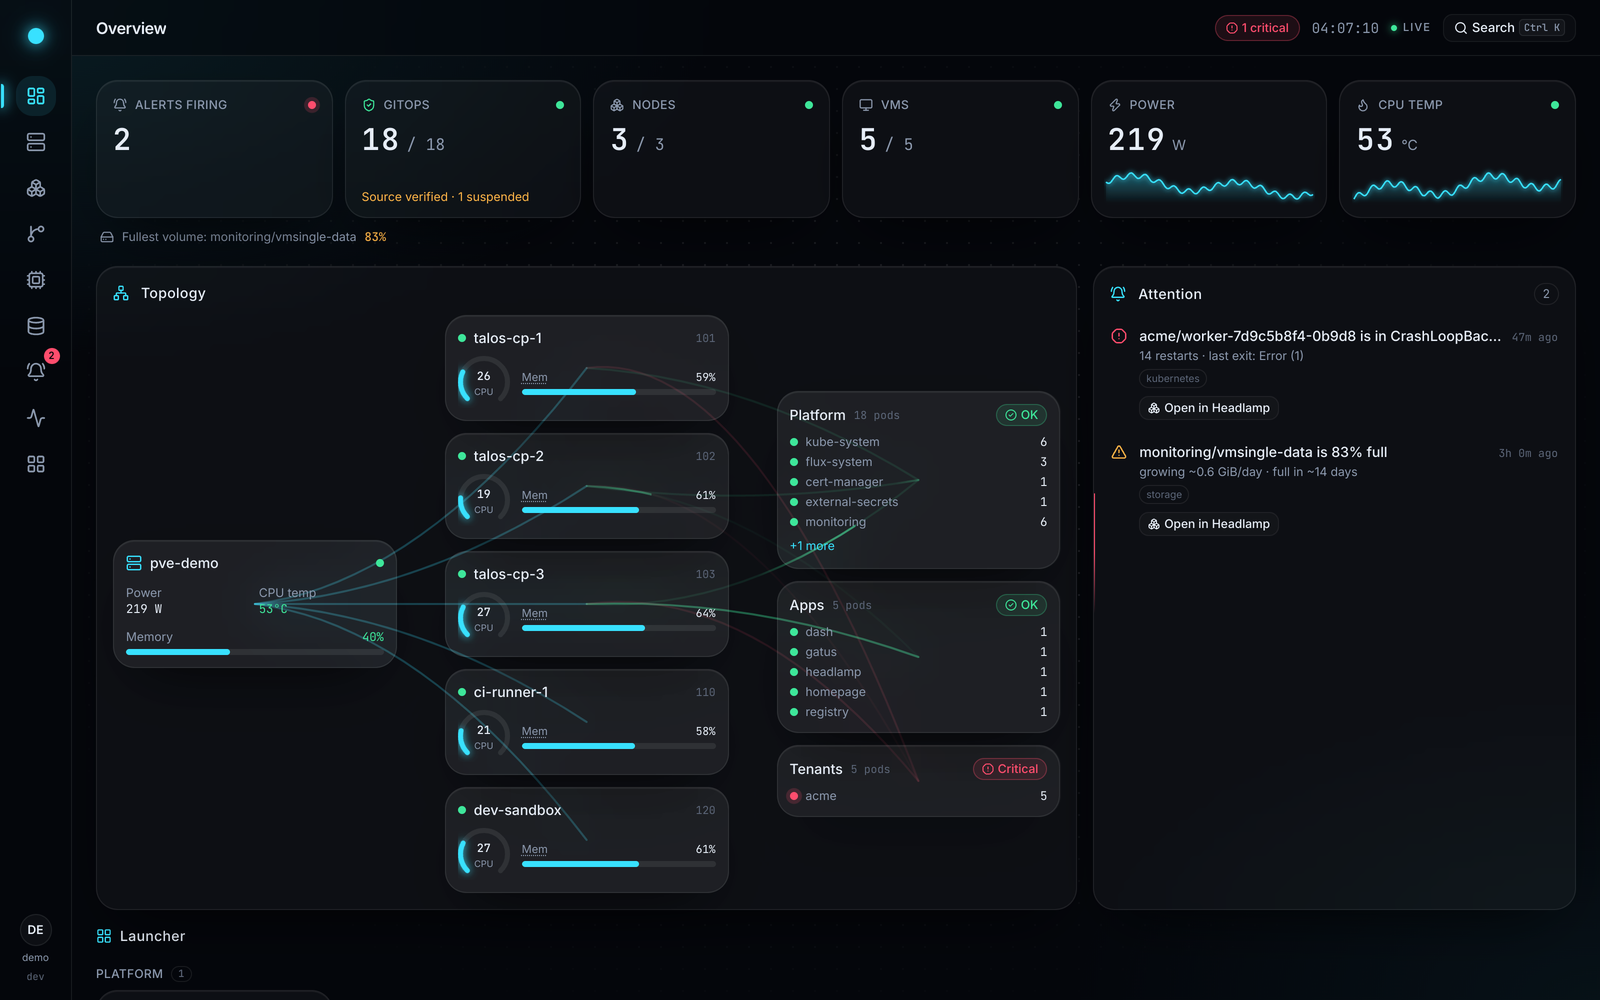
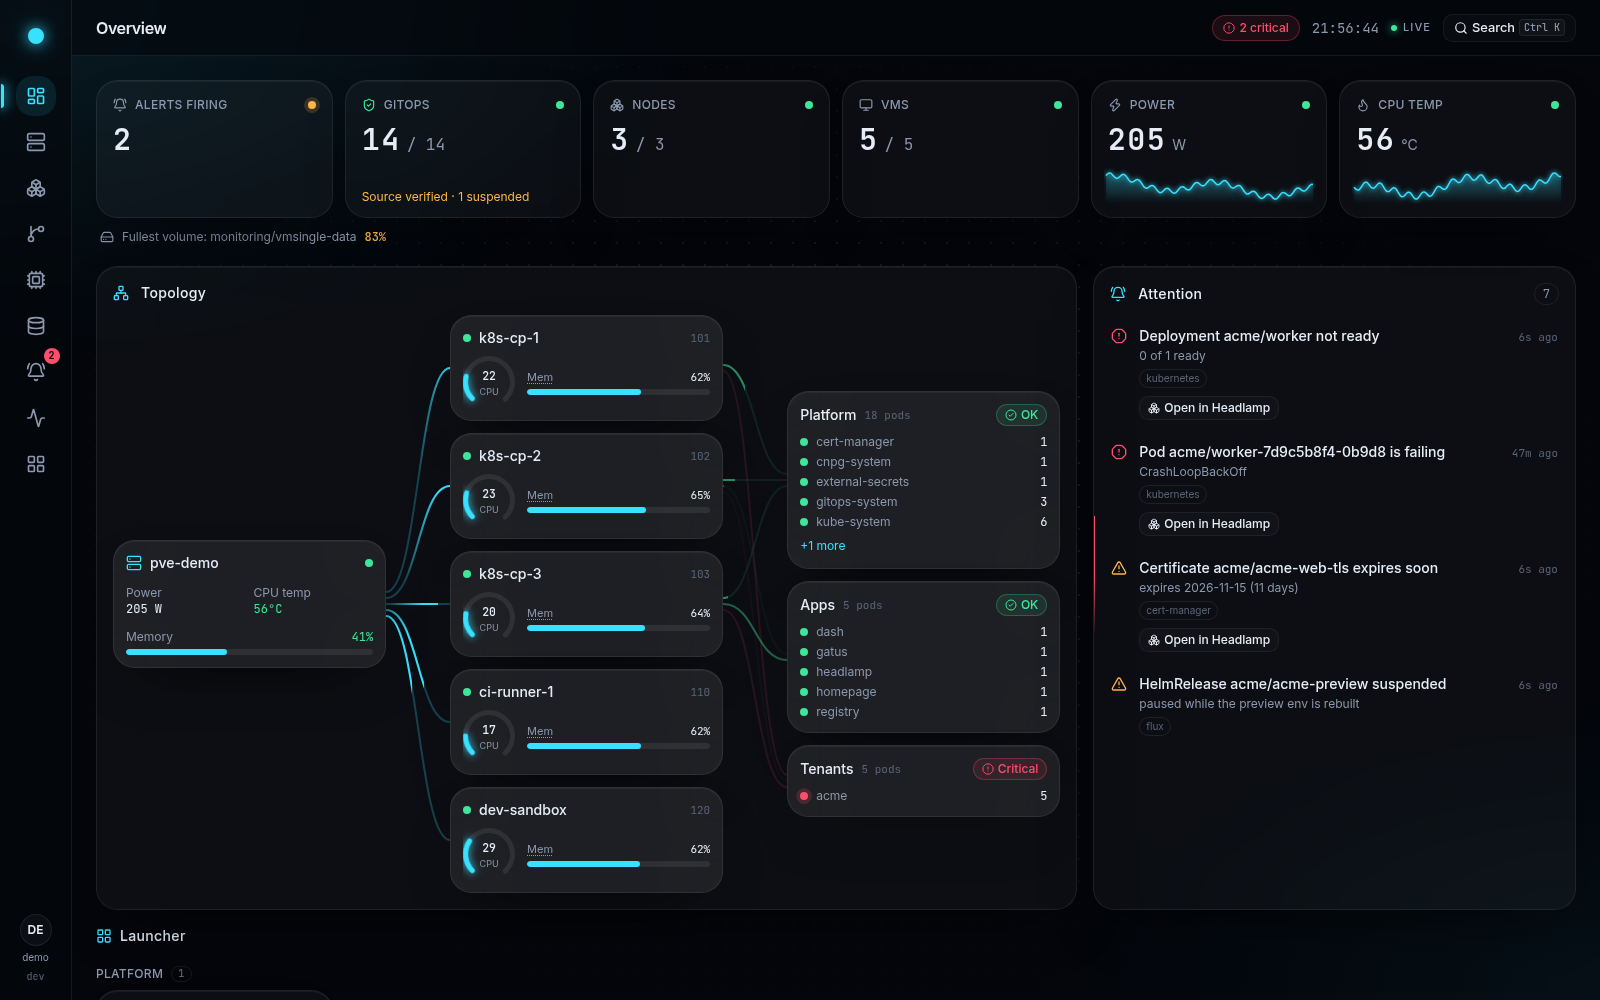
docs: v0.11.2 notes
epic-draft: the v0.11.2 release notes after the v0.11.1 ones. The
topology's beams run between the cards and behind them, stopped VMs
are dimmed again, and beams follow a card that grows. A host that the
icon base's name conversion empties gives no source and the warning,
and the warning follows server.csp. The README image is new. The
evidence section records the test runs, the mutants each new test
kills, and the Chromium checks: header wrap, stopped-card contrast,
"+1 more", and 0 CSP violations and 0 console errors on the nine
pages. The v0.11.1 notes gain the sentence the compatibility review
asked for: behind an authenticating proxy, an expired session logs
one connect-src violation naming the identity provider while the page
reloads into the sign-in, which is expected and needs no kill switch.

plugins-and-config: an As shipped (v0.11.2) note on A.9 for the
icon-base source and its warning.

README: docs/images/overview.png retaken from demo mode at the same
1600x1000, showing the new topology.

diff --git a/docs/design/epic-draft.md b/docs/design/epic-draft.md
@@ -1442,6 +1442,7 @@ R3 of G4: P4.6 and five carry fixes. Image only; nothing to change in the deploy
 
 - **A Content-Security-Policy is now enforced by default, and `DASH_SERVER_CSP` is the kill switch.** `server.csp` (`DASH_SERVER_CSP`, restart-only) is `enforce` (the default), `report-only` (the browser only reports violations in its console) or `off` (no policy header). If a browser shows a blank or unstyled page, set `DASH_SERVER_CSP=report-only` or `off` and restart: an environment change, not an image rollback. The SPA document gets `default-src 'self'; script-src 'self'; style-src 'self' 'nonce-<per-response nonce>'; img-src 'self' data: <ui.iconBaseURL with its path and a trailing slash>; connect-src 'self'; worker-src 'self'; manifest-src 'self'; frame-ancestors 'none'; base-uri 'none'; object-src 'none'; form-action 'self'`; every other response (JSON, event streams, assets, errors) gets `default-src 'none'; frame-ancestors 'none'`. With `ui.iconBaseURL` empty no third-party origin appears. An unknown value of `server.csp` is a configuration error.
 - **Set the kill switch by environment.** `DASH_SERVER_CSP` also survives an image rollback (a release before this setting only warns about the unknown variable); a `server.csp` key in a config file is refused by an older binary, and in YAML the value must be quoted (`csp: "off"`, because a bare `off` is YAML false).
+- Behind an authenticating proxy such as oauth2-proxy, when its session expires the browser logs one connect-src violation naming the identity provider while the page reloads into the sign-in; this is expected and needs no kill switch.
 - **Every response of the main listener also carries `X-Content-Type-Options: nosniff` and `Referrer-Policy: same-origin`**, in every CSP mode, and `Cache-Control: no-store` now covers every response that sets a cookie and `/login`, `/setup` and `/auth/*` (none exists yet). The health listener serves plain-text probes and `/metrics` only and sends none of the three.
 - **An `href` that is not `http:` or `https:` renders as text, not a link** (launcher links, the apps on the Apps page, deep links, the palette's app items; a `window.open` of one does nothing).
 - **A launcher icon outside the allowed forms makes the launcher row `error`** (a name, a same-origin path, or an `http(s)` URL under `ui.iconBaseURL` are allowed; an `http(s)` URL elsewhere, `javascript:` and `data:` are not), with a WARN naming the entry and nothing published. It is **not** a startup error in this release; a later release turns it into a configuration error for inline links. The example launcher file and the names the homelab uses are all valid.
@@ -1450,6 +1451,18 @@ R3 of G4: P4.6 and five carry fixes. Image only; nothing to change in the deploy
 **Evidence run for this release (local, the built binary; the homelab pass and the Gecko pass are not part of it):** `make check` on every commit; `go test -race ./...` and the web tests with `--sequence.shuffle` (52 files, 625 tests) pass at the tip. Slice tests were shown to fail on mutants by their authors (S7: 14 mutants; S8, S9 and S10 by reverting the code or one condition). Two additions at integration: the mutants of the disagreeing-headers comparison (`TestDisagreeingHeadersComparison`: eight of nine killed, the ninth equivalent) and `stopStream` leaving its page handlers behind (the "removes its own pagehide and pageshow handlers when it stops" row of `stream-bfcache.test.ts`). **Headers (demo mode, and the homelab-shaped environment `internal/config/testdata/deployment-v0.11.0.env`, which still validates with no warning):** `GET /` carries the CSP with a nonce equal to the page's meta tag and `img-src` with `https://cdn.jsdelivr.net/gh/homarr-labs/dashboard-icons/png/`; `/api/v1/me`, an asset, the event stream and a 404 carry `default-src 'none'; frame-ancestors 'none'` (and `no-store` on the API); `DASH_SERVER_CSP=report-only` switches every one of them to `Content-Security-Policy-Report-Only`, `off` removes it and keeps `nosniff` and `Referrer-Policy`, and `disabled` is refused by `dash config validate` (exit 1); a refused host carries the headers too. **Chromium (headless, demo mode, icon base set to the CDN):** 0 `securitypolicyviolation` events and 0 console CSP errors over the nine pages (`/`, `/alerts`, `/status`, `/vms`, `/hardware`, `/cluster`, `/gitops`, `/storage`, `/apps`), the command palette, the Restart dialog, the Silence dialog with its duration Select, the namespace Select of the cluster filters, a pod sheet with its Logs tab and container Select, and sonner's stylesheet (89 rules present); 55 icon requests to the CDN base, all 200. An injected `<img onerror>`, an inline `<script>` and an inline `<style>` were blocked (3 violations; none ran, the style did not apply). With `off` all three run, so the pass can fail; with `report-only` they run and are reported (3 violations). `ScrollArea` (its nonce prop was added in R1) has no user in `web/src` today, so no pass could open one. **Firefox: not run here; it is the reviewer's pass** (the plan requires one real Firefox pass before the policy is trusted in production). **Launcher:** a launcher with a name, a same-origin path and a URL under the base is `healthy`; an icon at another host, or `javascript:alert(1)`, makes the row `error` with one WARN and the process still starts. **Back/forward cache** (`local://s11-bfcache-repro.mjs`, headless Chromium, demo mode; the tip binary against the commit before the fix): with `server.limits.streamsPerUser` 3, three tabs that each navigated away left the server holding 1, then 2, then 3 streams before the fix and a direct `GET /api/v1/stream` answered **429**; after the fix every navigation away left 0 and the same request answered 200. With the pod sheet's live log tail on, the server held 1 event stream and 1 tail after navigating away before the fix and 0 and 0 after, and the page reopened both on return.
 
 **Evidence of the review fixes (after `RevG4R3Sec`):** `make check` on each commit; `go test -race ./...` and the web tests with `--sequence.shuffle` pass at the tip. The scheme comparison of `iconProblem` (the row `http://cdn.example.com:443/png/x.png` under an `https` base) and `mePending ||` in `workloads.tsx` and in `gitops.tsx` were each removed by hand: the new rows fail, and pass again once restored. The warning of the admin entries and of the icon base were checked with the built binary: `DASH_AUTH_PROXY_ADMIN_USERS` with an over-long and a control-character entry, and an `adminGroups` entry with a comma, loads, logs one WARN per entry with the list and the position and none of the value, and `dash config validate` prints the same lines as warnings and still says the configuration is valid; `https://my_cdn.example/png` as `DASH_UI_ICON_BASE_URL` logs one WARN at start with the scheme and host and leaves `img-src` at `'self' data:`, while `https://bücher.example/png` gives `https://xn--bcher-kva.example/png/` and no warning.
+
+#### v0.11.2 release notes
+
+A patch after R3: the Overview topology, and two nits of the v0.11.1 security review. Image only; nothing to change in the deployment.
+
+- **The topology's beams run between the cards, behind them.** A beam leaves the right edge of a card and enters the left edge of the next column's card as an S-curve that stays in the gutter, and its pulse travels only there; beams that share a card edge fan out a few pixels apart, in card order, clear of the rounded corners. The beams are drawn on a layer under the cards and the cards have an opaque base, so no line crosses a card's text or gauges or shows through it. The gutter is 64 px from 1536 px up and 48 px below, as before; the compact list under 768 px is unchanged.
+- **Stopped VMs are dimmed again** on the desktop topology (with the opaque base they had come close to the running ones).
+- **Beams follow a card that grows.** Expanding a group's "+N more" moved the other cards of its column but not their beams until the window was resized; a beam now re-measures when any card in either of its two columns changes size. This predates the new beams.
+- **The icon base:** a `ui.iconBaseURL` whose host the international-name conversion empties, wholly or in one label (`https://xn--/png`, a host that is only a soft hyphen or a zero-width space, `https://xn--.example/png`), now adds no `img-src` source and logs the startup warning; it used to add a source that browsers ignore as invalid, with no warning. A single trailing dot may stay. The warning follows `server.csp`: `enforce` says the icons will be blocked, `report-only` that they will be reported, and `off` logs none.
+- **The README's overview screenshot** shows the new topology (demo mode).
+
+**Evidence run for this release (local, the built binary in demo mode, headless Chromium):** `make check` on every commit; `go test -race ./internal/api/`; the web suite (53 files, 637 tests), also with `--sequence.shuffle` and seeds 1 and 424242. Every new test was shown to fail on its mutant in an isolated copy: the fan's short-card clamp, the corner margin (none, and the old 16 px), the host's fan-out, a reversed group fan-in, the beam layer above the cards (`z-20`), cards without the opaque base and a beam that observes only its own two cards; for the icon base, the dropped empty-host check and a warning that ignores the mode. In Chromium: no topology card header wraps between 1272 and 1344 px in this build or in the one before the new beams (both wrap at 1024 px, as before); a stopped card's background is (22,24,28) against (31,32,36) for a running card, as before the new beams (21,23,28 against 29,31,35); after a "+1 more" no beam end leaves its place on its card (five moved 10 px before the fix); 0 `securitypolicyviolation` events and 0 console errors on the nine pages with the policy enforced.
 
 ---
 

diff --git a/docs/design/plugins-and-config.md b/docs/design/plugins-and-config.md
@@ -493,6 +493,7 @@ Differences from the first draft of this section: a module has no static `nav` l
 - **`safeHref()`.** Every `href` built from config or upstream data (launcher links, `web/src/config/links.ts`) goes through `safeHref()`, which allows `http:` and `https:` only; anything else renders as text (clients-and-ai.md K.12).
 - **Launcher icons** may be a bundled name, a same-origin path, or a URL under `ui.iconBaseURL`. Any other URL is rejected.
 - **As shipped (G4 R3, v0.11.1): the policy, the kill switch, `safeHref` and the icon rule.** A middleware just inside the request id (`internal/api/headers.go`) puts `X-Content-Type-Options: nosniff`, `Referrer-Policy: same-origin` and `default-src 'none'; frame-ancestors 'none'` on every response of the main listener (the health listener serves plain-text probes and `/metrics` only and sends none of the three), and the SPA document (`index.html`, including any client-side route) replaces the last with the policy above, `style-src` carrying the response's nonce (`<meta name="csp-nonce">` and the header agree) and `img-src` carrying `ui.iconBaseURL` with its path and a trailing `/` (a path source matches by prefix and an icon is only ever `<base>/<name>.png`, so a CDN that serves arbitrary repositories cannot supply another image; the path restriction is defence in depth only, because a browser decodes `%2F` before it matches a path source); with no base no third-party origin appears. The source is computed once at start: an international host name is converted to its `xn--` form, and a base that cannot be written as a source (an IPv6 host, a name with an underscore) logs one startup WARN with its scheme and host and adds nothing. `server.csp` (`DASH_SERVER_CSP`, restart) is `enforce` (the default), `report-only` (the report-only header, no `report-uri`) or `off` (no policy; the other two headers stay): the kill switch for a browser difference, an environment change instead of an image rollback; set it by environment (an older binary only warns about the unknown variable) and quote it in YAML (`csp: "off"`, a bare `off` is YAML false). `Cache-Control: no-store` is forced on `/login`, `/setup`, `/auth/*` and on any response that carries `Set-Cookie`. `safeHref()` (`web/src/lib/safe-href.ts`) allows `http:` and `https:` and is applied at every server-supplied link: `LinkButtons`, `HeadlampIcon`, the launcher tiles of the Apps page and the infrastructure links, and the palette's `window.open`. `pluginconf.ValidateIcons` is called from the launcher's `Start` through the new `Host.IconBaseURL()` (`plugin.Options.IconBase`, from `ui.iconBaseURL`): a bad icon turns the launcher row `error`, logs a WARN naming the entry and publishes nothing. **It is not a load error in this release** (a patch release adds no startup error); the cross-section check for inline links, which fails the load, is R4's, and the SPA's `iconSrc` stays as defence in depth.
+- **As shipped (v0.11.2): the icon-base source and its warning.** A host that the international-name conversion empties, wholly or in one label (`xn--`, a soft hyphen, a zero-width space), counts as one that cannot be written as a source: no `img-src` entry and the startup WARN (a single trailing dot may stay). The WARN follows `server.csp`: `enforce` says the browser will block the icons, `report-only` that it will report them, and `off` logs none.
 - **As shipped (G3 PR-1, v0.7.0): icons.** There is no bundled icon set: the draft's "bundled (lucide) name" branch had nothing to resolve to in the tree, so it is dropped. Servers send the **raw icon token** (`LauncherLink.icon`), never a resolved URL, and the SPA resolves it with one function, `iconSrc(token, iconBaseURL)` in `web/src/config/links.ts`: a same-origin path is used as is; a name (`^\w[\w.-]*$`, such as `proxmox`) becomes `<iconBaseURL>/<name>.png`; an absolute URL is used only when it is http(s), has the base's origin and lies under the base's path; everything else gives the generic letter tile: a name with no base, another origin, a protocol-relative URL (`//host/x`), a path with a backslash, a relative path, `data:` and `javascript:`. `iconBaseURL` is the new top-level `ui.iconBaseURL` (`DASH_UI_ICON_BASE_URL`, default empty, an http(s) URL with a host and without query or fragment, `dash:"url,restart"`: restart-only, because it feeds the `img-src` of the CSP in P4.6). It reaches the SPA in `GET /api/v1/me` as `ui.iconBaseUrl`. With default settings the browser requests nothing from a third-party CDN for launcher links. **In v0.7.0 it covers launcher links only:** `App.iconUrl` is still the absolute CDN URL the server builds, because routing apps through the rule with an empty base would turn every app icon into a letter tile; apps change to the raw `App.icon` token in PR-3 (P3.9).
 - **As shipped (G3 PR-3a, v0.9.0): app icons (P3.9).** The last sentence of the v0.7.0 note above no longer holds: `ui.iconBaseURL` now covers **launcher links and app icons**. `App.iconUrl` is gone; the kubernetes plugin sends `App.icon`, the annotation's value as written (trimmed, at most 256 bytes; empty stays empty), and the Apps page resolves it with the same `iconSrc(token, iconBaseURL)` through one `useIconBase()` hook. The server builds no icon URL and has no CDN literal. `iconSrc` gained two rules, for both uses: a token starting `mdi-`, `si-` or `sh-` (homepage-style names, which are not dashboard-icons names: a request for one is a CDN 404, and the pre-change builder gave them no icon either) gives the letter tile and makes no request, and one trailing `.png`, `.svg` or `.webp` is dropped from a name before `.png` is appended, so `grafana.png`, `grafana.svg`, `grafana.webp` and `grafana` all give `<base>/grafana.png` (an icon that existed only as an SVG shows its PNG) and `a.b.png` gives `<base>/a.b.png`. For launcher links this fixes a latent PR-1 gap: `home-assistant.png` became `home-assistant.png.png`. With `ui.iconBaseURL` empty **no app icon is requested** and every app shows a letter tile: app icons no longer come from a third-party CDN by default (the v0.8.0 behaviour). A test on the Apps page and one on the launcher assert that no `<img>` outside the dash origin appears with an empty base.
 - Closed unions widen: `Link.kind` is a `string` in the generated TypeScript (`tstype:"string"`; the Go `LinkKind*` constants stay), and `LinkButtons` resolves an icon from the modules' `linkIcons`, then the `app` and `external` defaults, then a generic external-link icon, so an unknown kind still renders. `Group` stays a core enum (Platform, Apps, Tenants, Other), because grouping is a core concept that the kubernetes plugin feeds.
